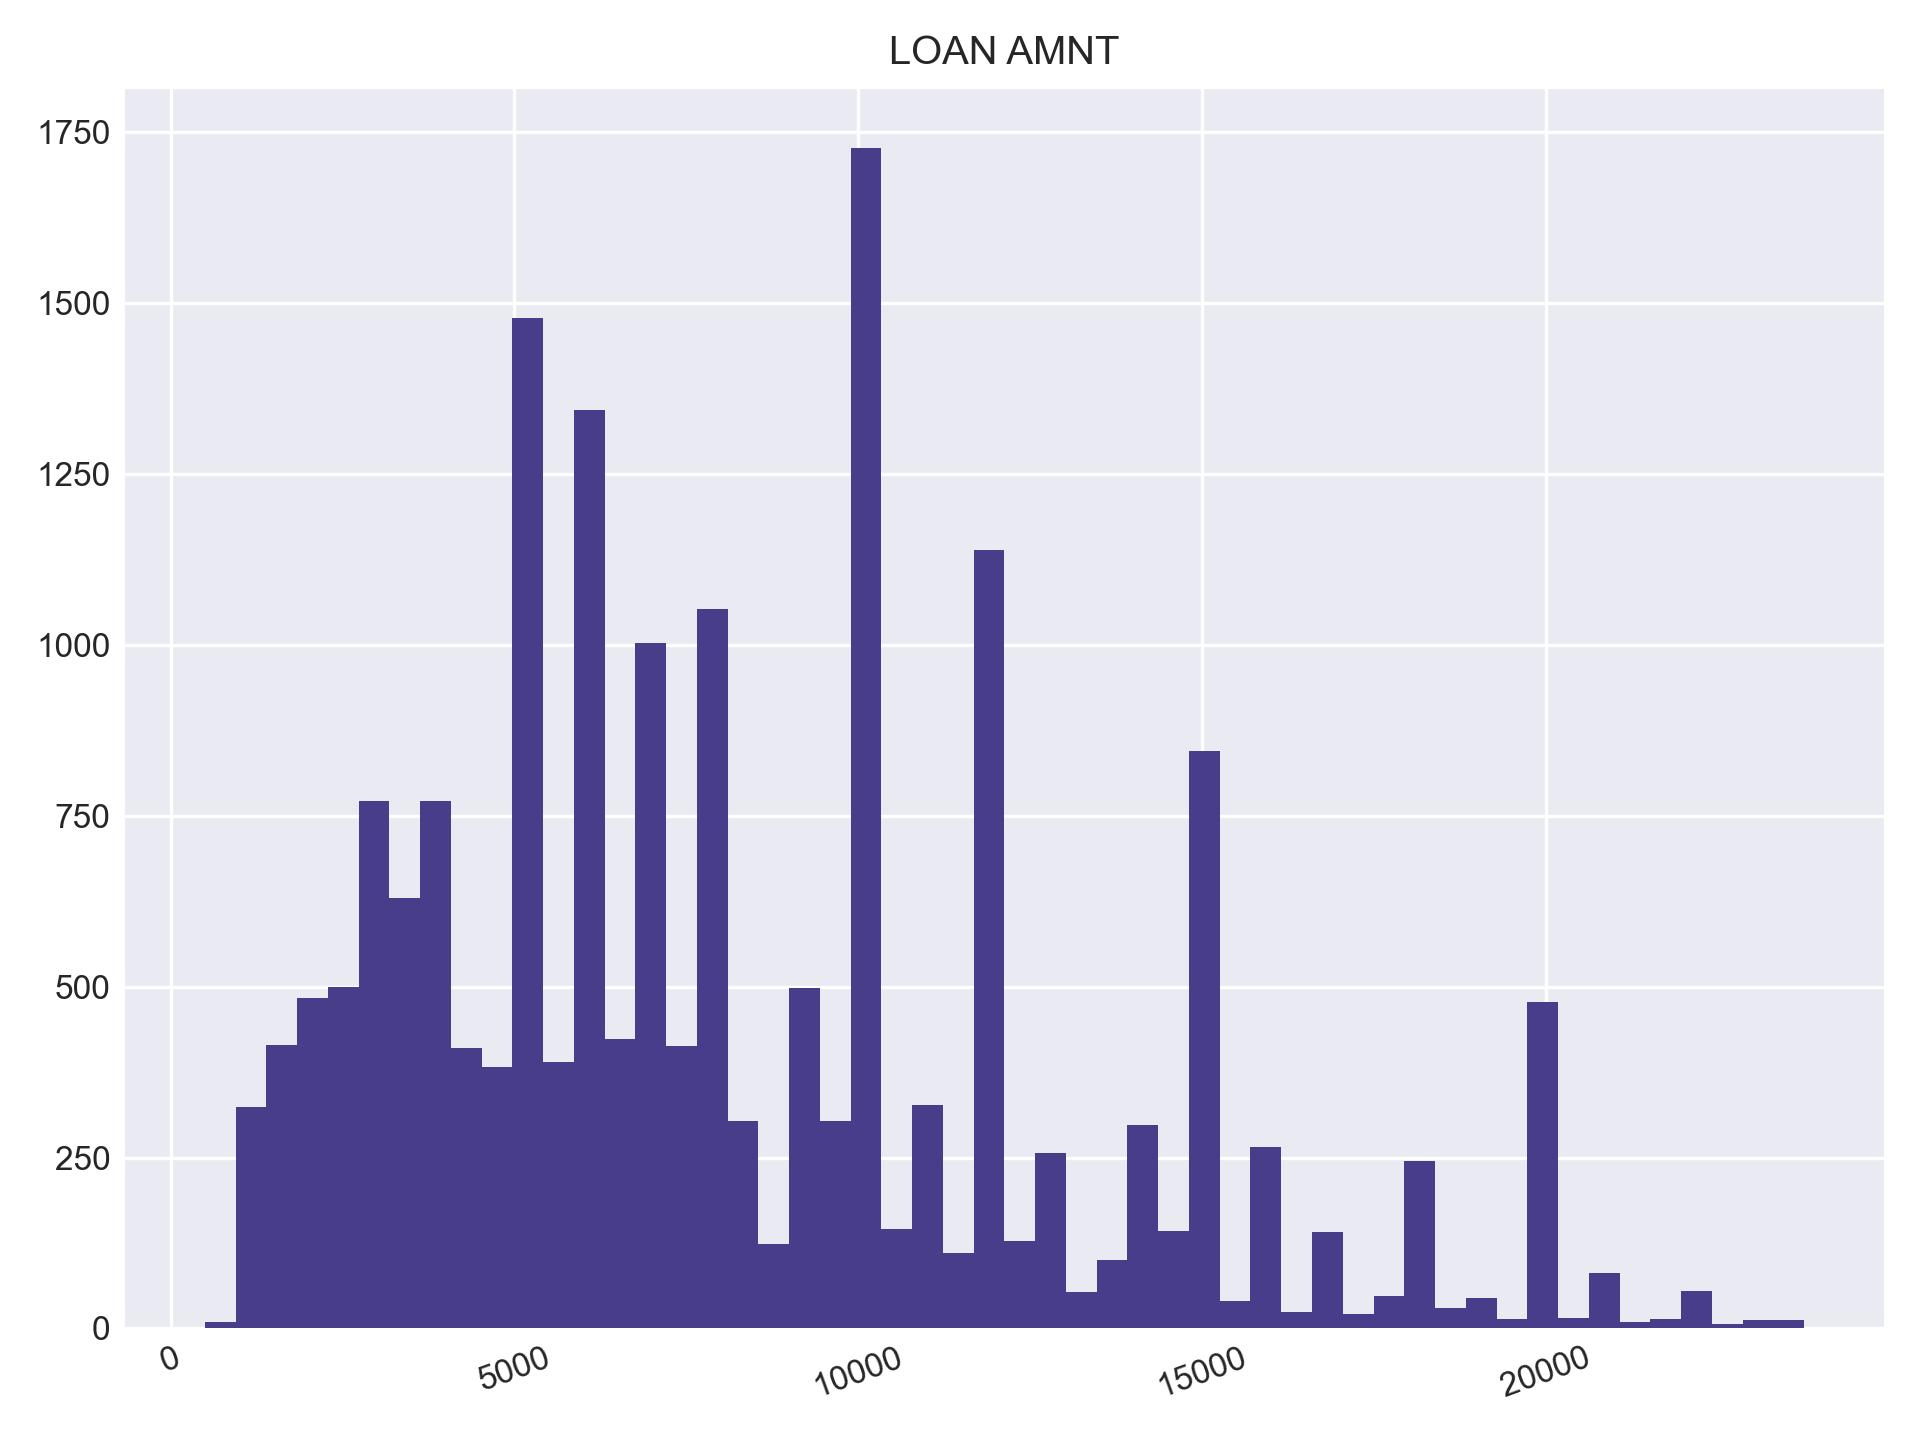
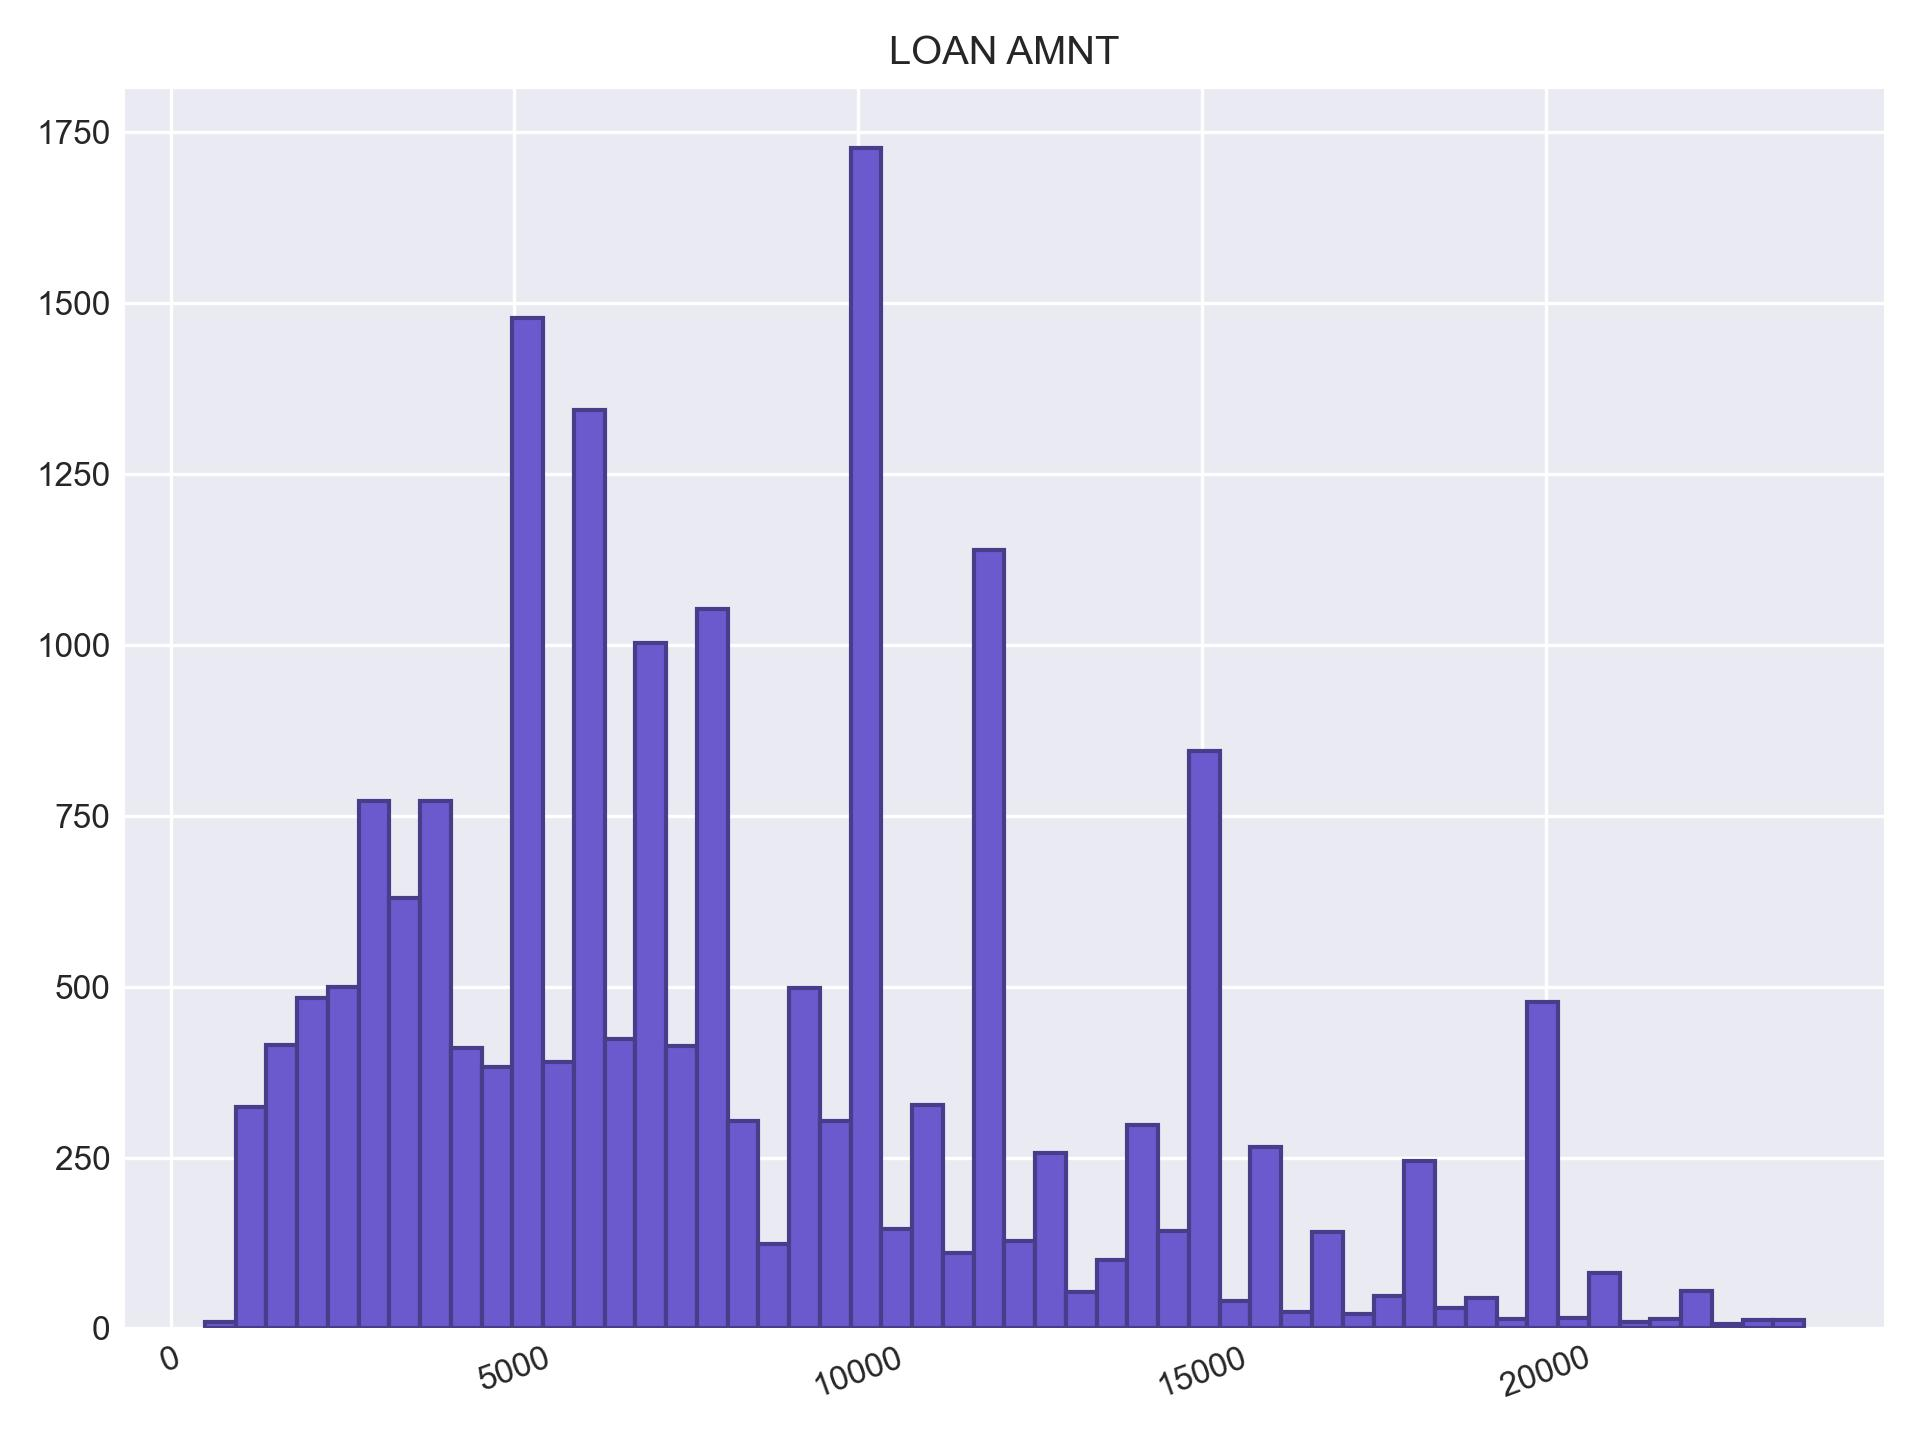
Numeric variables

Changed region(s): [[0.125, 0.0938, 0.9375, 0.9375]]

diff --git a/exploratory_analysis.py b/exploratory_analysis.py
@@ -82,3 +82,38 @@ class Exploratory_analysis:
         plt.tight_layout()
         
         plt.savefig(f'1_results/6_categorical_attributes.jpeg')
+        
+        return
+
+
+    def numeric_plot(self):
+        """
+        Plotting the information of the numeric variables.
+        """
+        
+        df_numeric = DataFrame(self.data_frame).drop("_id", axis=1)
+        df_numb = df_numeric.select_dtypes(include=['float64', 'int64'])
+        
+        fig, ax = plt.subplots(figsize=(18, 10), dpi=600)
+        
+        numb_plot = 0
+        
+        for col in df_numb:
+            # count
+            numb_plot += 1
+            
+            # plot
+            plt.subplot(2, 4, numb_plot)
+            
+            plt.hist(x=df_numb[col],
+                     density=True,
+                     color=self.color1,
+                     ec=self.color3) 
+            
+            plt.rcParams.update({'font.size': 11})
+            plt.xlabel(f"{col.replace('_', ' ').lower()}", fontsize=15)
+            plt.xticks(rotation = 8)
+        
+        plt.tight_layout()
+        
+        plt.savefig(f'1_results/7_numeric_attributes.jpeg')

diff --git a/data_cleansing.py b/data_cleansing.py
@@ -197,7 +197,7 @@ class Data_cleansing:
                          y='loan_amnt',
                          kind='scatter',
                          ax=ax,
-                         color='darkslateblue',
+                         color='slateblue',
                          alpha=0.15)
             
             # Outlier plot
@@ -221,6 +221,19 @@ class Data_cleansing:
         """
         *****
         """
+        
+        try:
+            missing_check = self.check_occurrence.find()
+            
+            if DataFrame(missing_check)['outlier'].iloc[-1] == 1:
+                return
+        
+        except:
+            self.check_occurrence.update_many({},
+                                              {'$set': 
+                                              {'outlier': 0}}, 
+                                              upsert=True, 
+                                              array_filters=None)
         
         raw = self.client[self.data_base][self.collection]
         df_data = DataFrame(raw.find())

diff --git a/descriptive.py b/descriptive.py
@@ -100,8 +100,9 @@ class Descriptive_stats:
                 
                 # plot
                 plot_data = data_frame[col].hist(color = self.color1,
-                                            legend = False,
-                                            bins = 'auto')
+                                                 ec=self.color3,
+                                                 legend = False,
+                                                 bins = 'auto')
                 
                 # layout
                 plt.title(f"{col.replace('_', ' ').upper()}")

diff --git a/config.py b/config.py
@@ -7,9 +7,9 @@ main_variables = ["loan_intent", "loan_amnt"]
 # ----------------------------------------------------------------------------
 style_graph="seaborn-dark"
 palette="flare"
-color1="darkslateblue" 
+color1="slateblue" 
 color2="tomato"
-color3="darkorange"
+color3="darkslateblue"
 color4="royalblue"
 color5="crimson"
 # ----------------------------------------------------------------------------

diff --git a/restart_db.py b/restart_db.py
@@ -1,0 +1,16 @@
+from pymongo import MongoClient
+
+
+def copy_db():
+    client = MongoClient('mongodb://localhost:27017')
+
+    client.drop_database('credit_risk')
+
+    db_copy = list(client['db_credit_risk_bkp']['credit_risk'].find())
+
+    collection_reinsert = client['credit_risk']['credit_risk']
+
+    collection_reinsert.insert_many(db_copy)
+
+
+copy_db()

diff --git a/main.py b/main.py
@@ -56,4 +56,5 @@ explorat_analysis = Exploratory_analysis(db_raw,
                                          color5 = color5)
 
 explorat_analysis.categorical_plot()
+explorat_analysis.numeric_plot()
 # ----------------------------------------------------------------------------

diff --git a/README.md b/README.md
@@ -123,5 +123,12 @@ cb_person_cred_hist_length|5.02|4.00|2.97|8.80|2.00|15.00
 	<br />
 </p>
 
+## Numerical variables
+<p align="left">
+	<br />
+ 	<img src="/1_results/7_numeric_attributes.jpeg" />
+	<br />
+	<br />
+</p>
 
 Under development...
